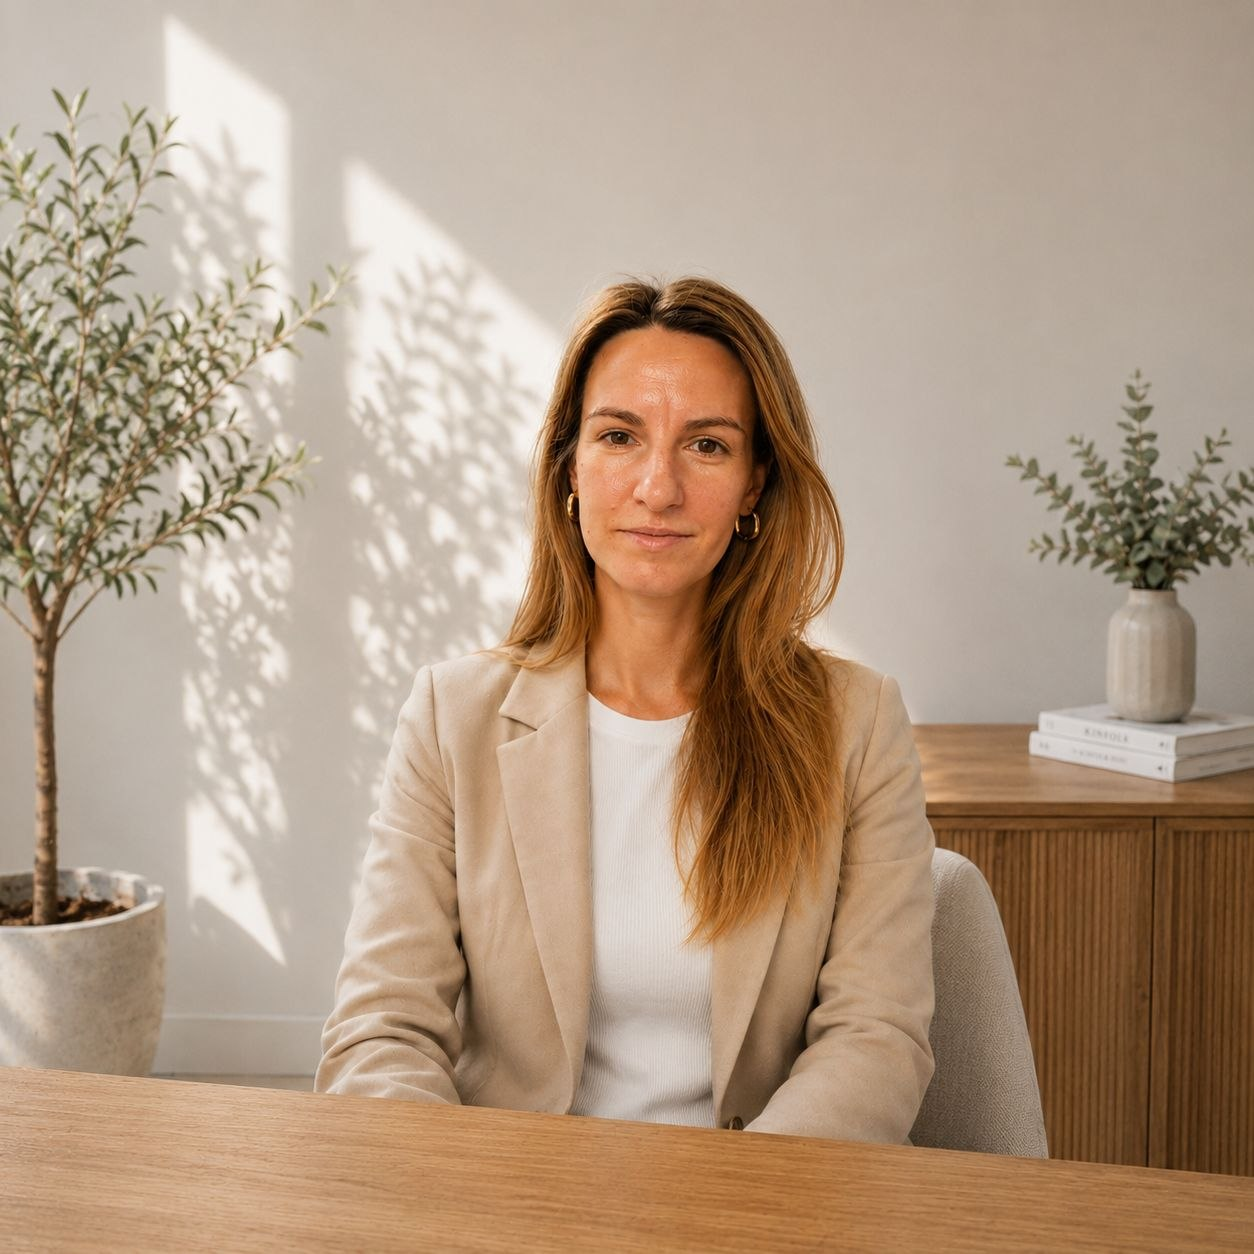
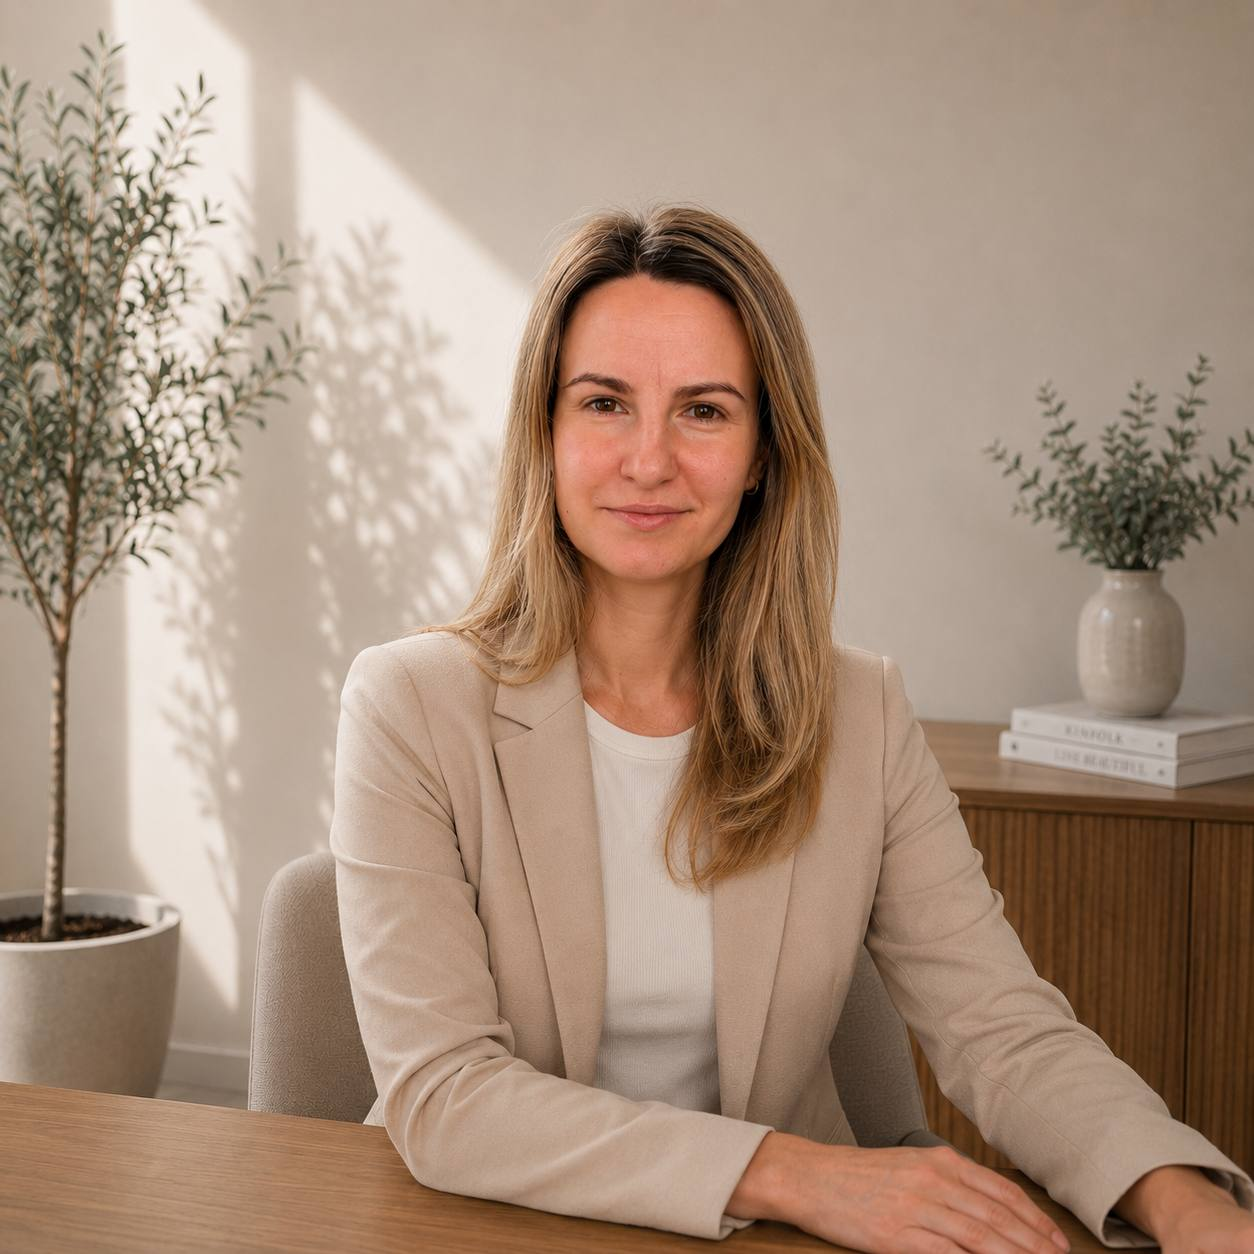
add page about me with styles

diff --git a/HW2/styles.css b/HW2/styles.css
@@ -1,0 +1,252 @@
+/* ============================================
+   Eva Kos-Sivirin — QC Engineer Portfolio
+   Palette: steel blue + QA "pass" teal
+   Type: Space Grotesk (display) / IBM Plex Sans (body) / IBM Plex Mono (labels)
+   ============================================ */
+
+:root {
+    --bg: #F6F8FA;
+    --surface: #FFFFFF;
+    --text: #1E2A38;
+    --text-muted: #5C6B7A;
+    --primary: #2C5F8A;
+    --primary-dark: #16324A;
+    --accent: #2E9E83;
+    --border: #DCE3EA;
+}
+
+* {
+    margin: 0 auto;
+    padding: 0;
+    box-sizing: border-box;
+    font-family: 'IBM Plex Sans', Verdana, Geneva, Tahoma, sans-serif;
+}
+
+body {
+    width: 80%;
+    max-width: 800px;
+    background-color: var(--bg);
+    color: var(--text);
+    line-height: 1.6;
+}
+
+h1, h2, h3 {
+    font-family: 'Space Grotesk', Verdana, sans-serif;
+    color: var(--primary-dark);
+    line-height: 1.25;
+}
+
+h1 {
+    font-size: 2rem;
+}
+
+h2 {
+    font-size: 1.5rem;
+    margin-top: 10px;
+    margin-bottom: 10px;
+}
+
+h3 {
+    font-size: 1.1rem;
+    color: var(--primary);
+    margin-top: 10px;
+    margin-bottom: 10px;
+}
+
+hr {
+    width: 100%;
+    border: none;
+    border-top: 1px solid var(--border);
+    margin: 20px auto;
+}
+
+a {
+    text-decoration: none;
+    padding: 10px;
+    color: var(--primary);
+    transition: color 0.15s ease;
+}
+
+a:hover,
+a:focus-visible {
+    color: var(--accent);
+}
+
+a:focus-visible {
+    outline: 2px solid var(--accent);
+    outline-offset: 2px;
+}
+
+/* ---- Nav ---- */
+
+nav {
+    position: fixed;
+    top: 0;
+    left: 50%;
+    transform: translateX(-50%);
+    width: 80%;
+    max-width: 800px;
+    z-index: 100;
+    background-color: var(--primary-dark);
+    border-bottom: 2px solid var(--accent);
+
+    display: flex;
+    justify-content: space-between;
+    align-items: center;
+    flex-wrap: wrap;
+}
+
+nav a {
+    margin: 0;
+    color: #FFFFFF;
+    font-family: 'Space Grotesk', sans-serif;
+    font-size: 0.85rem;
+    text-transform: uppercase;
+    letter-spacing: 0.04em;
+    padding: 14px 10px;
+    position: relative;
+}
+
+nav a:hover,
+nav a:focus-visible {
+    color: #FFFFFF;
+}
+
+nav a::after {
+    content: "";
+    position: absolute;
+    left: 10px;
+    right: 10px;
+    bottom: 8px;
+    height: 2px;
+    background: var(--accent);
+    transform: scaleX(0);
+    transform-origin: left;
+    transition: transform 0.2s ease;
+}
+
+nav a:hover::after,
+nav a:focus-visible::after {
+    transform: scaleX(1);
+}
+
+main {
+    padding-top: 70px;
+}
+
+section {
+    margin-top: 10px;
+    margin-bottom: 10px;
+    scroll-margin-top: 80px;
+}
+
+li {
+    margin-left: 20px;
+    padding: 3px 0;
+}
+
+/* checkmark bullets on the lists that read as accomplishments/traits */
+#skills li,
+#qa-mindset li,
+#personal li {
+    list-style: none;
+    margin-left: 0;
+    padding-left: 24px;
+    position: relative;
+}
+
+#skills li::before,
+#qa-mindset li::before,
+#personal li::before {
+    content: "✓";
+    position: absolute;
+    left: 0;
+    color: var(--accent);
+    font-weight: 700;
+}
+
+/* ---- Hero ---- */
+
+#hero {
+    margin-top: 0;
+    padding: 20px 15px;
+    background-image: radial-gradient(var(--border) 1px, transparent 1px);
+    background-size: 16px 16px;
+    background-position: top right;
+    border-radius: 8px;
+}
+
+#hero h1 {
+    margin-top: 30px;
+}
+
+#hero p:first-of-type {
+    margin-bottom: 10px;
+}
+
+#hero img {
+    float: left;
+    margin-top: 5px;
+    margin-right: 20px;
+    margin-bottom: 10px;
+    border-radius: 50%;
+    border: 3px solid var(--surface);
+    box-shadow: 0 2px 10px rgba(22, 50, 74, 0.18);
+}
+
+/* ---- Contact ---- */
+
+address {
+    font-style: normal;
+}
+
+/* ---- Footer ---- */
+
+footer {
+    background-color: var(--primary-dark);
+    color: #FFFFFF;
+    text-align: center;
+    padding: 16px;
+    margin-top: 20px;
+    font-family: 'IBM Plex Mono', monospace;
+    font-size: 0.8rem;
+}
+
+footer a {
+    color: #FFFFFF;
+}
+
+/* ---- Responsive ---- */
+
+@media (max-width: 600px) {
+    body {
+        width: 92%;
+    }
+
+    nav {
+        width: 92%;
+        justify-content: center;
+        gap: 4px;
+    }
+
+    nav a {
+        font-size: 0.75rem;
+        padding: 10px 6px;
+    }
+
+    #hero img {
+        float: none;
+        display: block;
+        margin: 0 auto 15px;
+    }
+
+    #hero {
+        text-align: center;
+    }
+}
+
+@media (prefers-reduced-motion: reduce) {
+    * {
+        transition: none !important;
+    }
+}

diff --git a/HW2/index.html b/HW2/index.html
@@ -5,6 +5,7 @@
     <meta charset="UTF-8">
     <meta name="viewport" content="width=device-width, initial-scale=1.0">
     <title>About Me | Eva Kos-Sivirin - QC Engineer</title>
+    <link rel="stylesheet" href="styles.css">
 </head>
 
 <body>
@@ -12,24 +13,20 @@
     <!-- Header Navigation -->
     <header>
         <nav>
-            <ul>
-                <li><a href="#about">About</a></li>
-                <li><a href="#qa-mindset">My QA Mindset</a></li>
-                <li><a href="#skills">Skills & Tools</a></li>
-                <li><a href="#current-chapter">Current Chapter</a></li>
-                <li><a href="#contact">Contact</a></li>
-            </ul>
+            <a href="#about">About Me</a>
+            <a href="#qa-mindset">My QA Mindset</a>
+            <a href="#skills">Skills & Tools</a>
+            <a href="#current-chapter">Current Chapter</a>
+            <a href="#contact">Contact</a>
         </nav>
     </header>
 
     <main>
         <!-- Hero Section -->
         <section id="hero">
-            <header>
-                <img src="photo_ekossivirin.jpeg" alt="Photo of Eva Kos-Sivirin" width="150" height="150">
-                <h1>Hi, I'm Eva Kos-Sivirin</h1>
-                <p><strong>Senior Quality Control Engineer (7+ Years Experience) | Quality Advocate</strong></p>
-            </header>
+            <img src="../photo_ekossivirin.jpeg" alt="Photo of Eva Kos-Sivirin" width="150" height="150">
+            <h1>Hi, I'm Eva Kos-Sivirin</h1>
+            <p><strong>Senior Quality Control Engineer (7+ Years Experience) | Quality Advocate</strong></p>
             <p>I specialize in finding edge cases before users do, building reliable test strategies, and making
                 software better—one bug at a time.</p>
         </section>
@@ -149,6 +146,7 @@
     <footer>
         <p>&copy; 2026 Eva Kos-Sivirin | QC Engineer</p>
     </footer>
+
 </body>
 
 </html>
